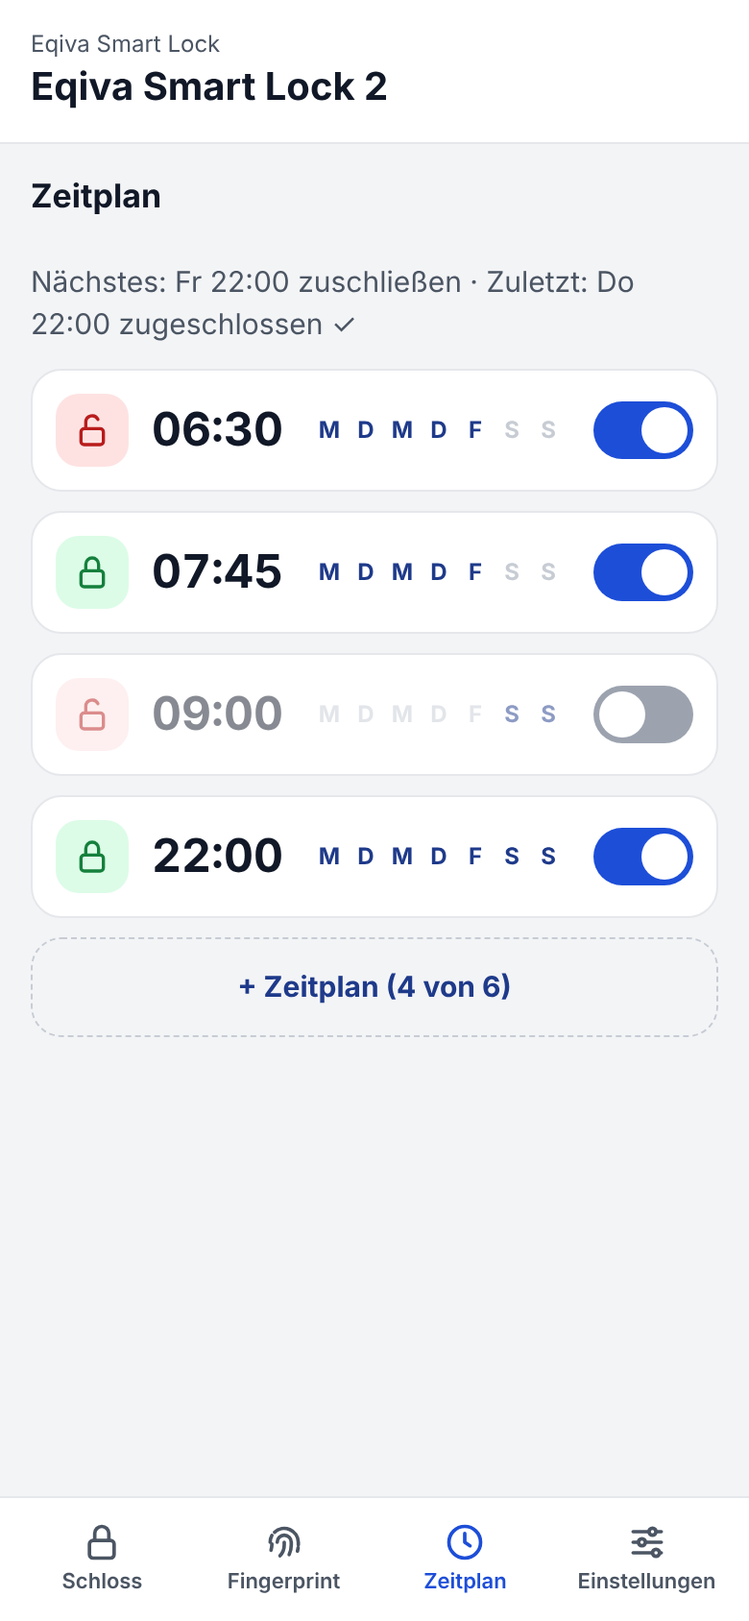
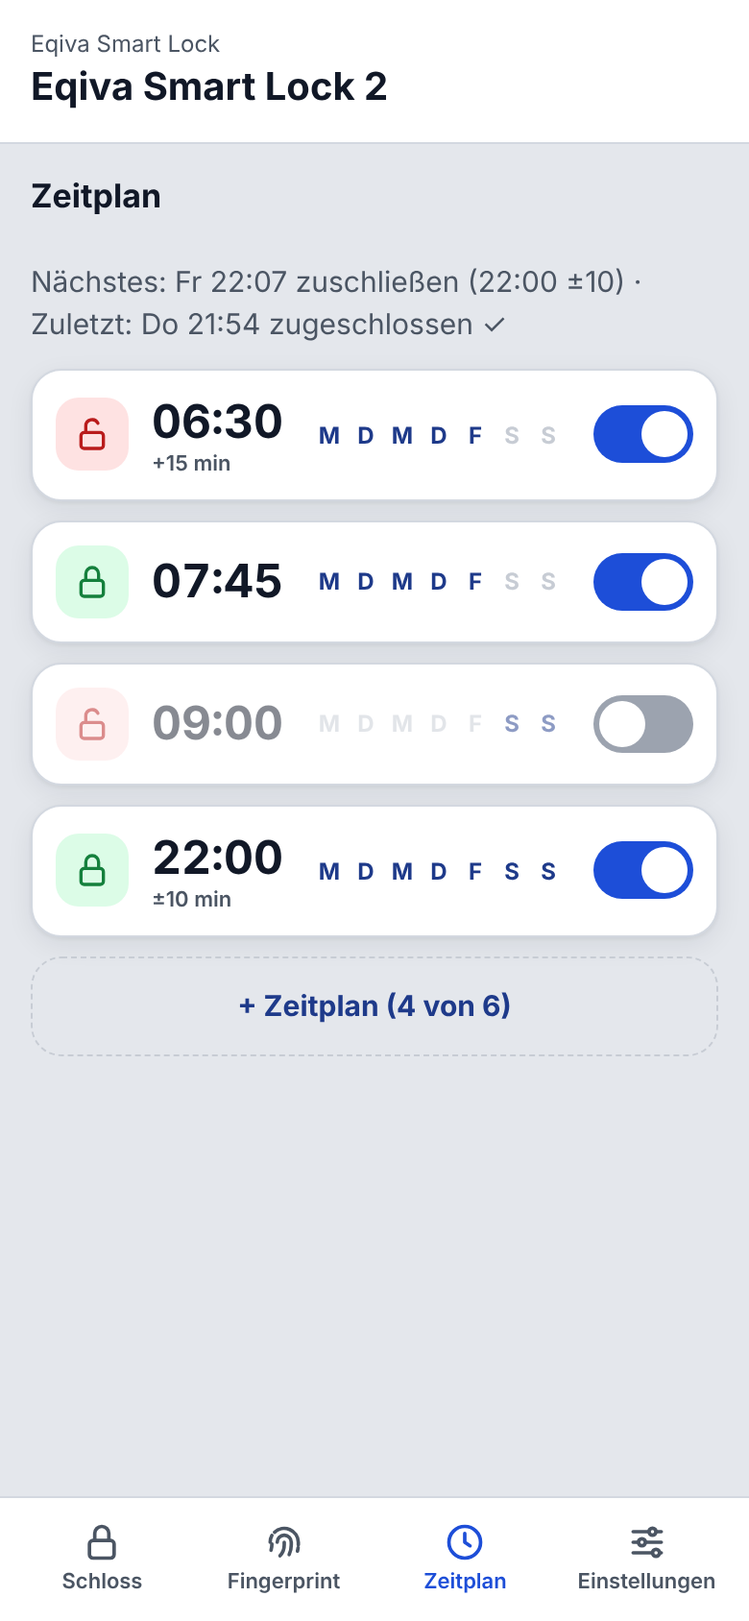
3.5.3: Zufällige Zeitplan-Abweichung, Handbedienung nach Befehl, mehr Kontrast
- Zeitpläne: optional +N / -N / ±N Minuten (1-60), einmal am Tag ausgewürfelt, am Tagesende gekappt; Anzeige der heutigen Zeit im Status
- Web-App: Bearbeitungsfenster mit Genau/Früher/Später/Beides und Minutenfeld, Abweichung in der Zeitplan-Liste
- Komponente: 40-s-Fenster nach jedem Befehl entfällt; nur 10 s nach Öffnen und nach nicht ausgeführtem Befehl keine Hand-Erkennung
- Web-App: Kartentitel "Ereignisse und Reaktionszeit" auch nach Neustart; mehr Kontrast (Hintergrund, Schatten, Titelleiste)
- Versionsnummern 3.5.3, CHANGELOG, ANLEITUNG, PATCH-NOTES, FORK-CHANGES, README und Screenshots aktualisiert

Claude-Session: https://claude.ai/code/session_01YXeYDb8hKaoF5eCYLR3NkB

diff --git a/examples/eqiva-smart-lock-app.js b/examples/eqiva-smart-lock-app.js
@@ -1,5 +1,5 @@
 // Eqiva Smart Lock – Web-App für die ESPHome-Web-GUI
-// Version 3.5.2 (2026-11-09) – alle Dateien mit gleicher Version gehören zusammen (inkl. eqiva_components)
+// Version 3.5.3 (2026-11-09) – alle Dateien mit gleicher Version gehören zusammen (inkl. eqiva_components)
 // Wird über "web_server: js_include: eqiva-smart-lock-app.js" in die Firmware eingebettet (gzip, ca. 15 KB).
 // Liest alle Werte live über /events (Server-Sent Events) und bedient über die REST-Schnittstelle
 // des ESP (POST /<domain>/<Name>/<aktion>). Läuft ohne Internet. Die ESPHome-Tabelle bleibt als
@@ -7,7 +7,7 @@
 // Fehlt ein Paket (Fingerprint, Zeitplan, …), blendet die App den Bereich einfach aus.
 (function () {
   'use strict';
-  const APP_VERSION = '3.5.2';
+  const APP_VERSION = '3.5.3';
   const GUIDE_URL = 'https://github.com/2nice4u/esphome-components-eqiva/blob/main/docs/ANLEITUNG.md';
 
   // ---------------------------------------------------------------- Zustand
@@ -279,11 +279,13 @@
     const tilesHtml = tiles.length ? '<div class="tiles">' + tiles.map((t) => '<div class="tile ' + t[2] + '"><span>' + esc(t[0]) + '</span><b>' + esc(t[1]) + '</b></div>').join('') + '</div>' : '';
     const ev = events(), rtHead = reactionHead();
     const f1 = (v) => v.toFixed(1).replace('.', ',') + ' s';
-    const evHtml = has('text_sensor/Ereignisse') || rtHead ? card('<h2>' + (rtHead ? 'Ereignisse und Reaktionszeit' : 'Ereignisse') + '</h2>' + rtHead +
+    const withRt = has('text_sensor/Reaktionszeiten');   // Titel bleibt gleich, auch ohne Messung (z. B. nach Neustart)
+    const evHtml = has('text_sensor/Ereignisse') || withRt ? card('<h2>' + (withRt ? 'Ereignisse und Reaktionszeit' : 'Ereignisse') + '</h2>' + rtHead +
+      (withRt && !rtHead && ev.length ? '<p class="muted small">Reaktionszeit: noch keine Messung seit dem Start.</p>' : '') +
       (ev.length ? '<ul class="ev evrt">' + ev.map((e) =>
         '<li><span class="dot k-' + e.kind + '"></span><span class="et">' + esc(e.label) + '<small>' + esc((e.day ? e.day + ' ' : '') + e.time) + '</small></span>' +
         '<span class="rtv ' + (isFinite(e.rt) ? rtClass(e.rt) : '') + '">' + (isFinite(e.rt) ? f1(e.rt) : '') + '</span></li>').join('') + '</ul>'
-        : '<p class="muted">Noch keine Ereignisse seit dem Start.</p>')) : '';
+        : '<p class="muted">' + (withRt && !rtHead ? 'Noch keine Ereignisse und Messungen seit dem Start.' : 'Noch keine Ereignisse seit dem Start.') + '</p>')) : '';
     const setup = txt('text_sensor/Einrichtungsstatus');
     const setupHtml = setup && !/^✅/.test(setup) && !/TESTMODUS/.test(setup) ? card('<span class="lbl">Einrichtung</span><p>' + esc(setup) + '</p>' +
       (has('button/BLE Pair _Start_') && /^[①②]/.test(setup) ? '<div class="foot">' + btn('pair', 'Jetzt koppeln', 'b pri') + '</div>' :
@@ -420,7 +422,7 @@
   // Zeitplan-Zeile "an 22:00 Mo-Fr zu" (gleiche Regeln wie im ESP)
   const SCHED_N = 6;
   function parseSched(t) {
-    const r = { empty: false, valid: false, on: true, time: '', mask: 0x7F, act: 2 };
+    const r = { empty: false, valid: false, on: true, time: '', mask: 0x7F, act: 2, rdir: '', rmin: 0 };
     const days = [];
     const toks = String(t || '').toLowerCase().split(/\s+/).filter(Boolean);
     if (!toks.length) { r.empty = true; return r; }
@@ -430,6 +432,8 @@
       else if (/^(aus|off)$/.test(k)) r.on = false;
       else if (/^(zu|zuschlie(ß|ss)en|lock)$/.test(k)) r.act = 2;
       else if (/^(auf|aufschlie(ß|ss)en|unlock)$/.test(k)) r.act = 1;
+      // Zufall: +N nur später, -N nur früher, ±N oder +-N beides (N = 0…60, 0 = aus)
+      else if ((m = k.match(/^(±|\+-|\+|-)(\d{1,2})$/)) && +m[2] <= 60) { r.rmin = +m[2]; r.rdir = !r.rmin ? '' : m[1] === '+' ? 'p' : m[1] === '-' ? 'm' : 'b'; }
       else if ((m = k.match(/^(\d{1,2}):(\d{1,2})(:00)?$/)) && +m[1] < 24 && +m[2] < 60) r.time = String(+m[1]).padStart(2, '0') + ':' + String(+m[2]).padStart(2, '0');
       else days.push(k);
     }
@@ -438,7 +442,8 @@
     r.valid = !!r.time && r.mask > 0;
     return r;
   }
-  const buildSched = (o) => (o.on ? 'an' : 'aus') + ' ' + o.time + ' ' + daysText(o.mask) + ' ' + (o.act === 1 ? 'auf' : 'zu');
+  const RSYM = { p: '+', m: '-', b: '±' };
+  const buildSched = (o) => (o.on ? 'an' : 'aus') + ' ' + o.time + ' ' + daysText(o.mask) + ' ' + (o.act === 1 ? 'auf' : 'zu') + (o.rdir && o.rmin ? ' ' + RSYM[o.rdir] + o.rmin : '');
   const schedId = (n) => 'text/Zeitplan ' + n;
 
   function viewPlan() {
@@ -463,13 +468,22 @@
       const what = p.act === 1 ? 'Aufschließen' : 'Zuschließen';
       h += '<div class="srow' + (p.on ? '' : ' off') + '"><button type="button" class="smain" data-a="sched-edit" data-x="' + n + '" aria-label="Zeitplan ' + n + ': ' + p.time + ' ' + daysText(p.mask) + ' ' + what + ' – bearbeiten">' +
         '<span class="sic ' + (p.act === 1 ? 'unl' : 'lck') + '">' + icon(p.act === 1 ? 'unlock' : 'lock', 20) + '</span>' +
-        '<span class="stime">' + p.time + '</span><span class="sdays" aria-hidden="true">' +
+        '<span class="stime">' + p.time + (p.rdir ? '<small class="srnd">' + RSYM[p.rdir] + p.rmin + ' min</small>' : '') + '</span><span class="sdays" aria-hidden="true">' +
         'MDMDFSS'.split('').map((d, i) => '<span' + (p.mask & (1 << i) ? ' class="on"' : '') + '>' + d + '</span>').join('') + '</span></button>' +
         '<button type="button" class="sw' + (p.on ? ' on' : '') + '" role="switch" aria-checked="' + p.on + '" aria-label="Zeitplan ' + n + ' aktiv" data-a="sched-tog" data-x="' + n + '"' + (S.busy ? ' disabled' : '') + '><span></span></button></div>';
     }
     if (!list.length) h += '<p class="muted">Noch kein Zeitplan angelegt.</p>';
     if (free) h += '<button type="button" class="sadd" data-a="sched-new" data-x="' + firstFree + '">+ Zeitplan (' + list.length + ' von ' + (list.length + free) + ')</button>';
     return h + '</div>';
+  }
+  // Klartext unter der Zufallsauswahl, z. B. "Zuschließen zufällig zwischen 21:50 und 22:10 Uhr …"
+  function rndPreview(s) {
+    const what = s.act === 1 ? 'Aufschließen' : 'Zuschließen';
+    if (!s.rdir || !s.time) return what + ' genau um ' + esc(s.time || '–') + ' Uhr.';
+    const [h, m] = s.time.split(':').map(Number), t = h * 60 + m;
+    const lo = Math.max(0, t - (s.rdir === 'p' ? 0 : s.rmin)), hi = Math.min(1439, t + (s.rdir === 'm' ? 0 : s.rmin));
+    const f = (x) => String(Math.floor(x / 60)).padStart(2, '0') + ':' + String(x % 60).padStart(2, '0');
+    return what + ' zufällig zwischen <b>' + f(lo) + '</b> und <b>' + f(hi) + '</b> Uhr, jeden Tag neu ausgewürfelt.';
   }
   function sheetSched(s) {
     const days = ['Mo', 'Di', 'Mi', 'Do', 'Fr', 'Sa', 'So'];
@@ -482,6 +496,12 @@
       days.map((d, i) => '<button type="button" class="' + (s.mask & (1 << i) ? 'sel' : '') + '" data-a="sc-day" data-x="' + i + '" aria-pressed="' + !!(s.mask & (1 << i)) + '">' + d + '</button>').join('') + '</div>' +
       '<div class="presets">' + pre.map((p) => '<button type="button" class="chip' + (s.mask === p[0] ? ' sel' : '') + '" data-a="sc-pre" data-x="' + p[0] + '">' + p[1] + '</button>').join('') + '</div></div>' +
       (s.mask ? '' : '<p class="note">Mindestens einen Wochentag wählen.</p>') +
+      '<div class="fld"><span class="lbl">Zufällige Abweichung</span><div class="seg">' +
+      [['', 'Genau'], ['m', 'Früher'], ['p', 'Später'], ['b', 'Beides']].map((d) => '<button type="button" class="' + (s.rdir === d[0] ? 'sel' : '') + '" data-a="sc-rdir" data-x="' + d[0] + '" aria-pressed="' + (s.rdir === d[0]) + '">' + d[1] + '</button>').join('') + '</div>' +
+      (s.rdir ? '<div class="rstep"><button type="button" class="b sm" data-a="sc-rmin" data-x="' + (s.rmin - 1) + '" aria-label="1 Minute weniger"' + (s.rmin <= 1 ? ' disabled' : '') + '>−</button>' +
+        '<label><span>' + RSYM[s.rdir] + '</span><input type="number" inputmode="numeric" min="1" max="60" data-c="sc-rmin" data-k="sc-rmin" value="' + s.rmin + '" aria-label="Minuten"><span>min</span></label>' +
+        '<button type="button" class="b sm" data-a="sc-rmin" data-x="' + (s.rmin + 1) + '" aria-label="1 Minute mehr"' + (s.rmin >= 60 ? ' disabled' : '') + '>+</button></div>' : '') +
+      '<p class="muted small rprev">' + rndPreview(s) + '</p></div>' +
       '<div class="foot">' + (s.isNew ? '' : (S.confirm === 'sched' ? btn('sc-del', 'Wirklich löschen', 'b danger') : btn('ask-sched', 'Löschen', 'b'))) +
       '<button type="button" class="b pri" data-a="sc-save"' + (s.mask && s.time && !S.busy ? '' : ' disabled') + '>Speichern</button></div>';
   }
@@ -692,7 +712,7 @@
       case 'sched-edit': case 'sched-new': {
         const n = +x, p = parseSched(txt(schedId(n))), isNew = a === 'sched-new' || p.empty;
         S.confirm = '';
-        S.sheet = { type: 'sched', n, isNew, on: isNew ? true : p.on, time: p.time || '22:00', act: p.act, mask: p.mask > 0 ? p.mask : 0x7F };
+        S.sheet = { type: 'sched', n, isNew, on: isNew ? true : p.on, time: p.time || '22:00', act: p.act, mask: p.mask > 0 ? p.mask : 0x7F, rdir: p.rdir || '', rmin: p.rmin || 10 };
         break;
       }
       case 'sched-tog': {
@@ -702,6 +722,8 @@
         return run([[schedId(n), 'set', { value: buildSched(p) }]], 'Zeitplan ' + (p.on ? 'eingeschaltet' : 'ausgeschaltet'));
       }
       case 'sc-act': S.sheet.act = +x; break;
+      case 'sc-rdir': S.sheet.rdir = x; break;
+      case 'sc-rmin': S.sheet.rmin = Math.min(60, Math.max(1, +x || 1)); break;
       case 'sc-day': S.sheet.mask ^= 1 << +x; break;
       case 'sc-pre': S.sheet.mask = +x; break;
       case 'ask-sched': S.confirm = 'sched'; break;
@@ -780,7 +802,11 @@
     if (!n.dataset) return;
     if (n.dataset.c === 'w-newperson' && S.wiz) { S.wiz.person = n.value.replace(/[,|]/g, ' ').trim(); draw(); }
     if (n.dataset.c === 'p-new' && S.sheet) S.sheet.newName = n.value;
-    if (n.dataset.c === 'sc-time' && S.sheet && n.value) S.sheet.time = n.value.slice(0, 5);
+    if (n.dataset.c === 'sc-time' && S.sheet && n.value) {   // nicht neu zeichnen (Zeitwähler bliebe sonst nicht offen)
+      S.sheet.time = n.value.slice(0, 5);
+      const pv = document.querySelector('#eqa .rprev'); if (pv) pv.innerHTML = rndPreview(S.sheet);
+    }
+    if (n.dataset.c === 'sc-rmin' && S.sheet && n.value) { S.sheet.rmin = Math.min(60, Math.max(1, Math.round(+n.value) || 1)); draw(); }
     if (n.dataset.c === 'pair-key' && S.pair) { S.pair.key = n.value; draw(); }
   }
   function onChange(e) {
@@ -810,12 +836,12 @@
   }
 
   const CSS_TEXT = `
-#eqa{--bg:#F3F4F6;--card:#FFF;--fg:#111827;--muted:#4B5563;--line:#E5E7EB;--bline:#C7CCD4;--soft:#F3F4F6;--acc:#1D4ED8;--accs:#EFF6FF;--acci:#1E3A8A;
+#eqa{--bg:#E4E7EC;--card:#FFF;--fg:#111827;--muted:#4B5563;--line:#D3D8E0;--bline:#C7CCD4;--soft:#F3F4F6;--acc:#1D4ED8;--accs:#EFF6FF;--acci:#1E3A8A;
 --lk:#15803D;--lkb:#DCFCE7;--ul:#B91C1C;--ulb:#FEE2E2;--op:#1D4ED8;--opb:#DBEAFE;--mv:#374151;--mvb:#E5E7EB;--wr:#92400E;--wrb:#FEF3C7;--pu:#6D28D9;--pub:#EDE9FE;
 color-scheme:light;position:fixed;inset:0;overflow-y:auto;background:var(--bg);color:var(--fg);font:15px/1.45 system-ui,-apple-system,"Segoe UI",Roboto,sans-serif;z-index:10;-webkit-tap-highlight-color:transparent}
-@media (prefers-color-scheme:dark){html:not([data-eqa-theme=light]) #eqa{color-scheme:dark;--bg:#0F1115;--card:#171A21;--fg:#E6E9EF;--muted:#9AA3B2;--line:#2A2F3A;--soft:#20242D;--acc:#6EA0FF;--accs:#1E2F57;--acci:#D6E4FF;--bline:#46506A;
+@media (prefers-color-scheme:dark){html:not([data-eqa-theme=light]) #eqa{color-scheme:dark;--bg:#08090C;--card:#1B1F27;--fg:#E6E9EF;--muted:#9AA3B2;--line:#333A48;--soft:#20242D;--acc:#6EA0FF;--accs:#1E2F57;--acci:#D6E4FF;--bline:#46506A;
 --lk:#4ADE80;--lkb:#12301F;--ul:#F87171;--ulb:#3A1717;--op:#7AA7FF;--opb:#172645;--mv:#CBD5E1;--mvb:#252A33;--wr:#FCD34D;--wrb:#3A2E10;--pu:#C4B5FD;--pub:#2A2142}}
-html[data-eqa-theme=dark] #eqa{color-scheme:dark;--bg:#0F1115;--card:#171A21;--fg:#E6E9EF;--muted:#9AA3B2;--line:#2A2F3A;--soft:#20242D;--acc:#6EA0FF;--accs:#1E2F57;--acci:#D6E4FF;--bline:#46506A;
+html[data-eqa-theme=dark] #eqa{color-scheme:dark;--bg:#08090C;--card:#1B1F27;--fg:#E6E9EF;--muted:#9AA3B2;--line:#333A48;--soft:#20242D;--acc:#6EA0FF;--accs:#1E2F57;--acci:#D6E4FF;--bline:#46506A;
 --lk:#4ADE80;--lkb:#12301F;--ul:#F87171;--ulb:#3A1717;--op:#7AA7FF;--opb:#172645;--mv:#CBD5E1;--mvb:#252A33;--wr:#FCD34D;--wrb:#3A2E10;--pu:#C4B5FD;--pub:#2A2142}
 html:not(.eqa-expert) esp-app{display:none}html.eqa-expert #eqa{display:none}
 #eqa-back{position:fixed;right:16px;bottom:16px;z-index:20;display:none;min-height:44px;padding:0 16px;border:0;border-radius:12px;background:#1D4ED8;color:#fff;font:600 14px system-ui,sans-serif;box-shadow:0 4px 14px rgba(0,0,0,.25);cursor:pointer}
@@ -831,7 +857,9 @@ html.eqa-expert #eqa-back{display:block}
 @media (min-width:900px){#eqa nav.bottom{display:none}#eqa nav.top{display:flex}#eqa nav.top button{flex-direction:row;gap:8px;font-size:14px;padding:0 14px;min-height:44px}
 #eqa nav.top button.act{background:var(--accs);color:var(--acci)}#eqa main{padding-bottom:32px}#eqa .grid2{grid-template-columns:minmax(0,1fr) minmax(0,1fr)}#eqa .cards{grid-template-columns:repeat(2,minmax(0,1fr))}}
 #eqa .grid2{display:grid;gap:16px}#eqa .col{display:flex;flex-direction:column;gap:16px;min-width:0}#eqa .cards{display:grid;gap:14px;margin-bottom:14px}
-#eqa .card{background:var(--card);border:1px solid var(--line);border-radius:18px;padding:16px;min-width:0}
+#eqa .card{background:var(--card);border:1px solid var(--line);border-radius:18px;padding:16px;min-width:0;overflow:hidden}
+#eqa .card,#eqa .tile,#eqa .srow{box-shadow:0 1px 2px rgba(16,24,40,.06),0 4px 14px rgba(16,24,40,.07)}
+#eqa .card>h2:first-child,#eqa .card>h3:first-child{margin:-16px -16px 14px;padding:12px 16px;background:var(--accs);color:var(--acci);border-bottom:1px solid var(--line);font-size:16px;font-weight:800}
 #eqa .card.info{border-color:var(--op)}#eqa .card.warnc{background:var(--wrb);border-color:transparent;color:var(--wr);margin-bottom:14px}
 #eqa .hero{display:flex;flex-direction:column;align-items:center;gap:6px;padding:8px 0 16px}
 #eqa .ring{width:120px;height:120px;border-radius:50%;display:flex;align-items:center;justify-content:center;margin-bottom:6px}
@@ -913,6 +941,8 @@ html.eqa-expert #eqa-back{display:block}
 #eqa .sadd{min-height:52px;border:1.5px dashed var(--bline);border-radius:16px;background:transparent;color:var(--acci);font:700 15px system-ui,sans-serif;cursor:pointer}
 #eqa .stbig{display:block;width:100%;text-align:center;font-size:44px;margin:4px 0 8px}
 #eqa .presets{display:flex;gap:6px;flex-wrap:wrap;margin-top:8px}#eqa .presets .chip{min-height:34px;font-weight:600}
+#eqa .srnd{display:block;font:600 11px system-ui,sans-serif;color:var(--muted)}#eqa .rprev{margin:10px 0 0}#eqa .rprev b{color:var(--fg)}
+#eqa .rstep{display:flex;align-items:center;gap:10px;margin-top:10px}#eqa .rstep .b{min-width:48px;min-height:44px;font-size:20px}#eqa .rstep label{display:flex;align-items:center;gap:6px;font:700 18px system-ui,sans-serif}#eqa .rstep input{width:72px;min-height:44px;text-align:center;font:700 20px system-ui,sans-serif;border:1px solid var(--line);border-radius:10px;background:var(--bg);color:var(--fg)}
 #eqa .presets .chip.sel{border-color:var(--acc);background:var(--accs);color:var(--acci)}
 #eqa .seg button svg{vertical-align:-3px}
 #eqa .plan.off{opacity:.7}#eqa .bigtime{font:700 30px system-ui,sans-serif;border:0;background:transparent;color:var(--fg);padding:0;font-variant-numeric:tabular-nums}

diff --git a/components/eqiva_key_ble/eqiva_key_ble.cpp b/components/eqiva_key_ble/eqiva_key_ble.cpp
@@ -588,8 +588,6 @@ void EqivaKeyBle::sendCommand(CommandType command) {
     reaction_act_ = command == LOCK ? 'z' : (command == UNLOCK ? 'a' : 'o');
     reaction_src_ = ev_pending_src_.substr(0, 16);
     ev_reaction_ms_ = 0;
-    last_command_ms_ = now;
-    last_command_valid_ = true;
     cmd_source_.clear();
   }
   if (this->simulate_) {
@@ -989,6 +987,7 @@ void EqivaKeyBle::on_lock_state_(uint8_t st) {
         dur = b;
       }
       this->log_event(std::string(icon[st]) + " " + ev_pending_src_ + dur);
+      if (ev_pending_ == OPEN) { hand_quiet_ = true; hand_quiet_since_ = now; }
       ev_pending_ = -1;
       ev_reaction_ms_ = 0;
     } else if (ev_moved_ && !(ev_pending_ == OPEN && st == 2)) {
@@ -996,14 +995,17 @@ void EqivaKeyBle::on_lock_state_(uint8_t st) {
       this->log_event(std::string("✗ ") + (want == 3 ? "zu" : want == 2 ? "auf" : "öffnen") + " " +
                       ev_pending_src_ + " (jetzt " + word[st] + ")");
       ev_pending_ = -1;
+      hand_quiet_ = true;
+      hand_quiet_since_ = now;
     }
     ev_last_state_ = st;
     return;
   }
   // Ohne Befehl: Zustandswechsel = von Hand (Schlüssel, Drehknauf, Taste am Schloss)
+  if (hand_quiet_ && (now - hand_quiet_since_) >= HAND_QUIET_MS) hand_quiet_ = false;
   if (ev_last_state_ != 255 && st != ev_last_state_ &&
       !(ev_last_state_ == 4 && st == 2) &&          // OPENED -> UNLOCKED: Falle zurück, kein Ereignis
-      (!last_command_valid_ || (now - last_command_ms_) > 40000)) {
+      !hand_quiet_) {
     this->log_event(std::string("🖐 ") + icon[st] + " von Hand");
   }
   ev_last_state_ = st;
@@ -1015,6 +1017,8 @@ void EqivaKeyBle::ev_fail_(const char *why) {
   this->log_event(std::string("✗ ") + w[ev_pending_ <= 2 ? ev_pending_ : 0] + " " + ev_pending_src_ +
                   " (" + why + ")");
   ev_pending_ = -1;
+  hand_quiet_ = true;
+  hand_quiet_since_ = millis();
 }
 
 void EqivaKeyBle::ev_tick_() {

diff --git a/components/eqiva_key_ble/eqiva_key_ble.h b/components/eqiva_key_ble/eqiva_key_ble.h
@@ -28,7 +28,7 @@ namespace eqiva_key_ble {
 using namespace esp32_ble_client;
 
 // Version der gepatchten Komponente (gehört zu den Beispiel-YAMLs mit gleicher Version)
-#define EQIVA_PATCH_VERSION "3.5.2"
+#define EQIVA_PATCH_VERSION "3.5.3"
 
 // Patch-Konstanten
 static const uint32_t SEND_TIMEOUT_MS = 3000;      // Timeout für Fragment-Write / Nonce-Antwort
@@ -121,8 +121,11 @@ class EqivaKeyBle : public BLEClientBase {
     uint32_t ev_pending_at_{0};
     bool ev_moved_{false};               // seit dem Befehl MOVING gesehen
     uint32_t ev_reaction_ms_{0};         // gemessene Reaktionszeit des laufenden Befehls, 0 = keine
-    uint32_t last_command_ms_{0};
-    bool last_command_valid_{false};
+    // Kurze Sperre der "von Hand"-Erkennung: nach Öffnen (Falle springt zurück) und nach
+    // nicht bestätigten Befehlen (Schloss fährt evtl. verspätet). Sonst zählt jede Drehung sofort.
+    uint32_t hand_quiet_since_{0};
+    bool hand_quiet_{false};
+    static const uint32_t HAND_QUIET_MS = 10000;
     uint8_t ev_last_state_{255};         // letzter Endzustand (2/3/4), 255 = unbekannt
     void on_lock_state_(uint8_t st);
     void ev_tick_();

diff --git a/docs/ANLEITUNG.md b/docs/ANLEITUNG.md
@@ -1,6 +1,6 @@
 # Eqiva Smart Lock – Anleitung & Hilfe
 
-Gilt für Version 3.5.2 (Komponente, Pakete und Web-App mit gleicher Versionsnummer).
+Gilt für Version 3.5.3 (Komponente, Pakete und Web-App mit gleicher Versionsnummer).
 Änderungen: [CHANGELOG.md](../CHANGELOG.md)
 
 ## Die Web-App
@@ -75,7 +75,7 @@ Was „Öffnen“ macht, hängt von der Auswahl **„Türgriff außen“** (Schl
 
 > Gilt für alle Wege: Web-GUI, Home Assistant (`lock.open`) und Fingerprint mit Aktion „Öffnen“. Beim kompletten Öffnen meldet „Lock Status“ kurz **OPENED**, beim reinen Aufschließen nicht.
 
-**Ereignisse** zeigt die letzten 10 Ereignisse, neueste zuerst, z. B. `18:42 🔓 Max R-Daumen (1,6 s) · 18:05 🔒 Zeitplan 1 (2,4 s) · 17:30 🖐 🔓 von Hand · 06.11. 22:10 🔔 unbekannter Finger`. **HA/Web** = Home Assistant oder die Web-GUI · **🖐 von Hand** = Schlüssel, Drehknauf oder Taste am Schloss · **✗** = Befehl nicht ausgeführt (Grund in Klammern) · ⛔ abgewiesen · ❓ unbekannter Finger · ⚠ Sabotage. Ältere Einträge fallen weg, wenn die 255 Zeichen von Home Assistant voll sind; alle stehen im Log. „Von Hand“ erkennt der ESP erst, wenn das Schloss den neuen Zustand meldet – im Energiemodus „Sparsam“ also beim nächsten Verbinden. Nach einem Neustart ist die Liste leer.
+**Ereignisse** zeigt die letzten 10 Ereignisse, neueste zuerst, z. B. `18:42 🔓 Max R-Daumen (1,6 s) · 18:05 🔒 Zeitplan 1 (2,4 s) · 17:30 🖐 🔓 von Hand · 06.11. 22:10 🔔 unbekannter Finger`. **HA/Web** = Home Assistant oder die Web-GUI · **🖐 von Hand** = Schlüssel, Drehknauf oder Taste am Schloss · **✗** = Befehl nicht ausgeführt (Grund in Klammern) · ⛔ abgewiesen · ❓ unbekannter Finger · ⚠ Sabotage. Ältere Einträge fallen weg, wenn die 255 Zeichen von Home Assistant voll sind; alle stehen im Log. „Von Hand“ erkennt der ESP, sobald das Schloss den neuen Zustand meldet – auch direkt nach einem Befehl (z. B. zugeschlossen und gleich wieder von Hand aufgedreht). Nur 10 s nach „Öffnen“ (Falle springt zurück) und nach einem nicht ausgeführten Befehl zählt eine Drehung nicht. Im Energiemodus „Sparsam“ meldet das Schloss nur, solange die Verbindung besteht (nach einem Befehl standardmäßig 30 s); sonst sieht der ESP die Handbedienung erst beim nächsten Verbinden und nur den Endzustand. Nach einem Neustart ist die Liste leer.
 
 ## 5. Eqiva-App zusätzlich nutzen
 
@@ -173,7 +173,9 @@ Die Übersicht **„Angelernte Finger“** zeigt alle Finger, z. B. `#0 St R-Dau
 
 Bis zu **6 Zeitpläne**, z. B. „täglich 22:00 zuschließen“, „Mo–Fr 07:45 zuschließen“, „Sa+So 09:00 aufschließen“.
 
-**In der Web-App** (Reiter Zeitplan): jede Zeile zeigt Aktion (🔒 grün = zuschließen, 🔓 rot = aufschließen), Uhrzeit und Wochentage, rechts der Schalter Ein/Aus. Zeile antippen = bearbeiten (Uhrzeit, Aktion, Wochentage oder Schnellwahl Mo–Fr / Sa+So / Täglich, Löschen). **+ Zeitplan** legt einen neuen an.
+**In der Web-App** (Reiter Zeitplan): jede Zeile zeigt Aktion (🔒 grün = zuschließen, 🔓 rot = aufschließen), Uhrzeit und Wochentage, rechts der Schalter Ein/Aus. Zeile antippen = bearbeiten (Uhrzeit, Aktion, Wochentage oder Schnellwahl Mo–Fr / Sa+So / Täglich, zufällige Abweichung, Löschen). **+ Zeitplan** legt einen neuen an.
+
+**Zufällige Abweichung:** damit nicht jeden Tag auf die Minute genau geschlossen wird. Im Bearbeitungsfenster **Genau · Früher · Später · Beides** wählen und die Minuten (1–60) mit − / + oder per Eingabe einstellen. Darunter steht der Zeitraum im Klartext, z. B. „Zuschließen zufällig zwischen 21:50 und 22:10 Uhr“. Die Zeit wird für jeden Zeitplan einmal am Tag neu ausgewürfelt; in der Liste steht die Abweichung unter der Uhrzeit (z. B. „±10 min“). Für „auf“ empfiehlt sich **Später**, dann öffnet das Schloss nie vor der eingestellten Zeit.
 
 **Von Hand** (Expertenansicht, Home Assistant): jeder Zeitplan ist ein Textfeld **„Zeitplan 1“ … „Zeitplan 6“**:
 
@@ -182,9 +184,12 @@ Bis zu **6 Zeitpläne**, z. B. „täglich 22:00 zuschließen“, „Mo–Fr 07:
 | `an 22:00 Mo-So zu` | täglich 22:00 zuschließen |
 | `an 07:45 Mo-Fr zu` | werktags 07:45 zuschließen |
 | `aus 09:00 Sa,So auf` | ausgeschaltet (bleibt gespeichert) |
+| `an 22:00 Mo-So zu ±10` | täglich zufällig zwischen 21:50 und 22:10 zuschließen (`+-10` geht auch) |
+| `an 06:30 Mo-Fr auf +15` | werktags zufällig zwischen 06:30 und 06:45 aufschließen (nie früher) |
+| `an 07:45 Mo-Fr zu -5` | werktags zufällig zwischen 07:40 und 07:45 zuschließen (nie später) |
 | *(leer)* | nicht belegt |
 
-`an`/`aus` (ohne Angabe: an) · Uhrzeit `HH:MM` · Wochentage · `zu`/`auf` (ohne Angabe: zu). Reihenfolge und Groß-/Kleinschreibung egal. Ist ein Text nicht lesbar, steht in „Zeitplan“ **„Zeitplan N ungültig!“** und die App zeigt die Zeile gelb.
+`an`/`aus` (ohne Angabe: an) · Uhrzeit `HH:MM` · Wochentage · `zu`/`auf` (ohne Angabe: zu) · optional Zufall `+N` / `-N` / `±N` (N = 1–60 Minuten). Ein Zeitraum über Mitternacht wird bei 00:00 bzw. 23:59 gekappt. Reihenfolge und Groß-/Kleinschreibung egal. Ist ein Text nicht lesbar, steht in „Zeitplan“ **„Zeitplan N ungültig!“** und die App zeigt die Zeile gelb.
 
 | Wochentage | Bedeutung |
 |---|---|
@@ -196,7 +201,7 @@ Bis zu **6 Zeitpläne**, z. B. „täglich 22:00 zuschließen“, „Mo–Fr 07:
 
 Fallen zwei Zeitpläne auf dieselbe Minute, gilt der mit der kleineren Nummer. Beim Update von einer Version vor 3.4.0 übernimmt der ESP die bisherigen Zeitpläne 1 und 2 beim ersten Start automatisch.
 
-Die Anzeige **„Zeitplan“** zeigt den nächsten Termin und das letzte Ergebnis (✓ bestätigt, ✗ Schloss hat nicht reagiert). Ohne Bestätigung wird bis zu 3× im Minutenabstand wiederholt.
+Die Anzeige **„Zeitplan“** zeigt den nächsten Termin (mit Zufall: die heute ausgewürfelte Zeit, z. B. „Fr 22:07 zuschließen (22:00 ±10)“) und das letzte Ergebnis (✓ bestätigt, ✗ Schloss hat nicht reagiert). Ohne Bestätigung wird bis zu 3× im Minutenabstand wiederholt.
 
 > Die Uhrzeit kommt per SNTP aus dem Internet, ersatzweise von Home Assistant – der Zeitplan läuft also auch ohne HA. Ohne gültige Uhrzeit pausiert er (Meldung in „Zeitplan“).
 

diff --git a/CHANGELOG.md b/CHANGELOG.md
@@ -23,6 +23,26 @@ Die Nummern bis 1.3.0 wurden nicht ganz nach diesen Regeln vergeben; der Handlun
 dort nur die unter „Handlungsbedarf“ genannten Stellen übernehmen. Pakete, `app.js` und `eqiva_components/`
 werden von allen Schlössern gemeinsam genutzt und einfach ersetzt.
 
+## 3.5.3 – 2026-11-09
+
+### Neu
+- **Zeitpläne mit zufälliger Abweichung:** pro Zeitplan „Genau“, „Früher“, „Später“ oder „Beides“ und 1–60 Minuten.
+  Die Zeit wird einmal am Tag neu ausgewürfelt. Im Textfeld z. B. `an 22:00 Mo-So zu ±10`, `+15` (nur später) oder `-5` (nur früher).
+  Die Anzeige „Zeitplan“ zeigt die heute ausgewürfelte Zeit, z. B. „Nächstes: Fr 22:07 zuschließen (22:00 ±10)“.
+- **Mehr Kontrast in der Web-App:** dunklerer Hintergrund, Kacheln mit kräftigerem Rand und leichtem Schatten,
+  Überschriften als farbige Titelleiste (hell und dunkel).
+
+### Geändert
+- **Handbedienung direkt nach einem Befehl wird erkannt** (z. B. zugeschlossen und gleich wieder von Hand aufgedreht).
+  Das bisherige 40-s-Fenster nach jedem Befehl entfällt. Nur 10 s nach „Öffnen“ (Falle springt zurück) und nach einem
+  nicht ausgeführten Befehl zählt eine Drehung nicht als „von Hand“.
+- Die Startseiten-Karte heißt immer „Ereignisse und Reaktionszeit“, auch direkt nach einem Neustart
+  (vorher zunächst nur „Ereignisse“). Ohne Einträge steht dort „Noch keine Ereignisse und Messungen seit dem Start.“
+
+### Update
+- Pakete, `app.js` und `eqiva_components/` ersetzen, flashen.
+- Eigene Hauptdatei: nur `config_version: "3.5.3"` setzen, sonst nichts ändern.
+
 ## 3.5.2 – 2026-11-09
 
 ### Neu

diff --git a/FORK-CHANGES.md b/FORK-CHANGES.md
@@ -1,6 +1,6 @@
 # Änderungen in diesem Fork
 
-**Version 3.5.2** (2026-11-09) – Komponente, Beispiel-YAMLs und Anleitung tragen dieselbe Versionsnummer.
+**Version 3.5.3** (2026-11-09) – Komponente, Beispiel-YAMLs und Anleitung tragen dieselbe Versionsnummer.
 1.1.0: Fingerprint-Paket mit Zuordnung Person/Hand/Finger, Aktion pro Finger (inkl. Umschalten), Ring-Rückmeldung und Scan-Pause.
 1.1.1: Pinbelegung als Substitutions, R503-Stromabschaltung per PNP-Transistor (sensor_power_pin), mehrere Status-LEDs.
 1.2.0: Paket Zeitplan (2 Zeitpläne mit Uhrzeit, Wochentagen und Aktion, SNTP).
@@ -39,6 +39,7 @@
 3.5.0: Reaktionszeit (Befehl bis Motor läuft) als Sensor und Liste, Anzeige in der Web-App.
 3.5.1: Reaktionszeiten speichern Aktion (zu/auf/öffnen) und Quelle; Piktogramme in Balken und Liste der Web-App.
 3.5.2: Startseite mit Karte „Ereignisse und Reaktionszeit“, Reaktionszeit auch im Ereignistext.
+3.5.3: Zeitpläne mit zufälliger Abweichung, Handbedienung direkt nach Befehl erkannt, mehr Kontrast in der Web-App.
 
 Basis: github.com/digaus/esphome-components-eqiva, Stand `main` vom 22.08.2026 (Fix für ESPHome 2026.8).
 
@@ -46,7 +47,7 @@ Basis: github.com/digaus/esphome-components-eqiva, Stand `main` vom 22.08.2026 (
 
 ```yaml
 external_components:
-  - source: github://DEIN-GITHUB-NAME/esphome-components-eqiva@v3.5.2
+  - source: github://DEIN-GITHUB-NAME/esphome-components-eqiva@v3.5.3
 ```
 
 Vollständiges Beispiel mit Web-GUI, Energiemodi, Pairing-Info, optionalem R503-Fingerprint und Status-LED:

diff --git a/README.md b/README.md
@@ -11,7 +11,7 @@ Protokoll und Verschlüsselung sind unverändert. Die wichtigsten Änderungen:
 - **Ereignisse und Reaktionszeit:** alle Ereignisse mit Uhrzeit auf der Startseite, dazu die Zeit vom Befehl bis der Motor dreht, mit Ø, max und Ampel
 - **Pairing abgesichert:** bei Fehlschlag oder Abbruch bleibt die bisherige Kopplung, Hinweis „Schloss nicht erreichbar“
 - **Neu in der Komponente:** RSSI-Sensor der Verbindung, `on_paired`-Auslöser, klare Meldungen bei fehlendem Pairing oder Pairing-Modus
-- **Beispiel-Konfiguration** in [`examples/`](examples/): Energiemodi, Testmodus ohne Schloss und optionale Pakete für R503-Fingerprint, Status-LED, Statistik und bis zu 6 Zeitpläne
+- **Beispiel-Konfiguration** in [`examples/`](examples/): Energiemodi, Testmodus ohne Schloss und optionale Pakete für R503-Fingerprint, Status-LED, Statistik und bis zu 6 Zeitpläne (optional mit zufälliger Abweichung, offline per SNTP)
 
 Alle Details: [FORK-CHANGES.md](FORK-CHANGES.md)
 Versionen und Änderungen: [CHANGELOG.md](CHANGELOG.md)
@@ -43,7 +43,7 @@ Die Bilder zeigen Testdaten, keine echten Personen oder Bedienungen.
 
    ```yaml
    external_components:
-     - source: github://2nice4u/esphome-components-eqiva@v3.5.2
+     - source: github://2nice4u/esphome-components-eqiva@v3.5.3
    ```
 
    YAMLs und Komponente gehören zusammen. Für ein Update die Dateien des neuen

diff --git a/components/PATCH-NOTES.md b/components/PATCH-NOTES.md
@@ -1,6 +1,6 @@
 # Eqiva Key-BLE – gepatchte Version
 
-**Version 3.5.2** (2026-11-09) – Komponente mit Testmodus (simulate) und Ereignisprotokoll (`events`), Reaktionszeit (`reaction_time`, `reaction_list`), passend zu den Beispiel-YAMLs und der Anleitung mit gleicher Version.
+**Version 3.5.3** (2026-11-09) – Komponente mit Testmodus (simulate) und Ereignisprotokoll (`events`), Reaktionszeit (`reaction_time`, `reaction_list`), passend zu den Beispiel-YAMLs und der Anleitung mit gleicher Version.
 
 Basis: github.com/digaus/esphome-components-eqiva, Stand `main` vom 22.08.2026 (Fix für ESPHome 2026.8).
 
